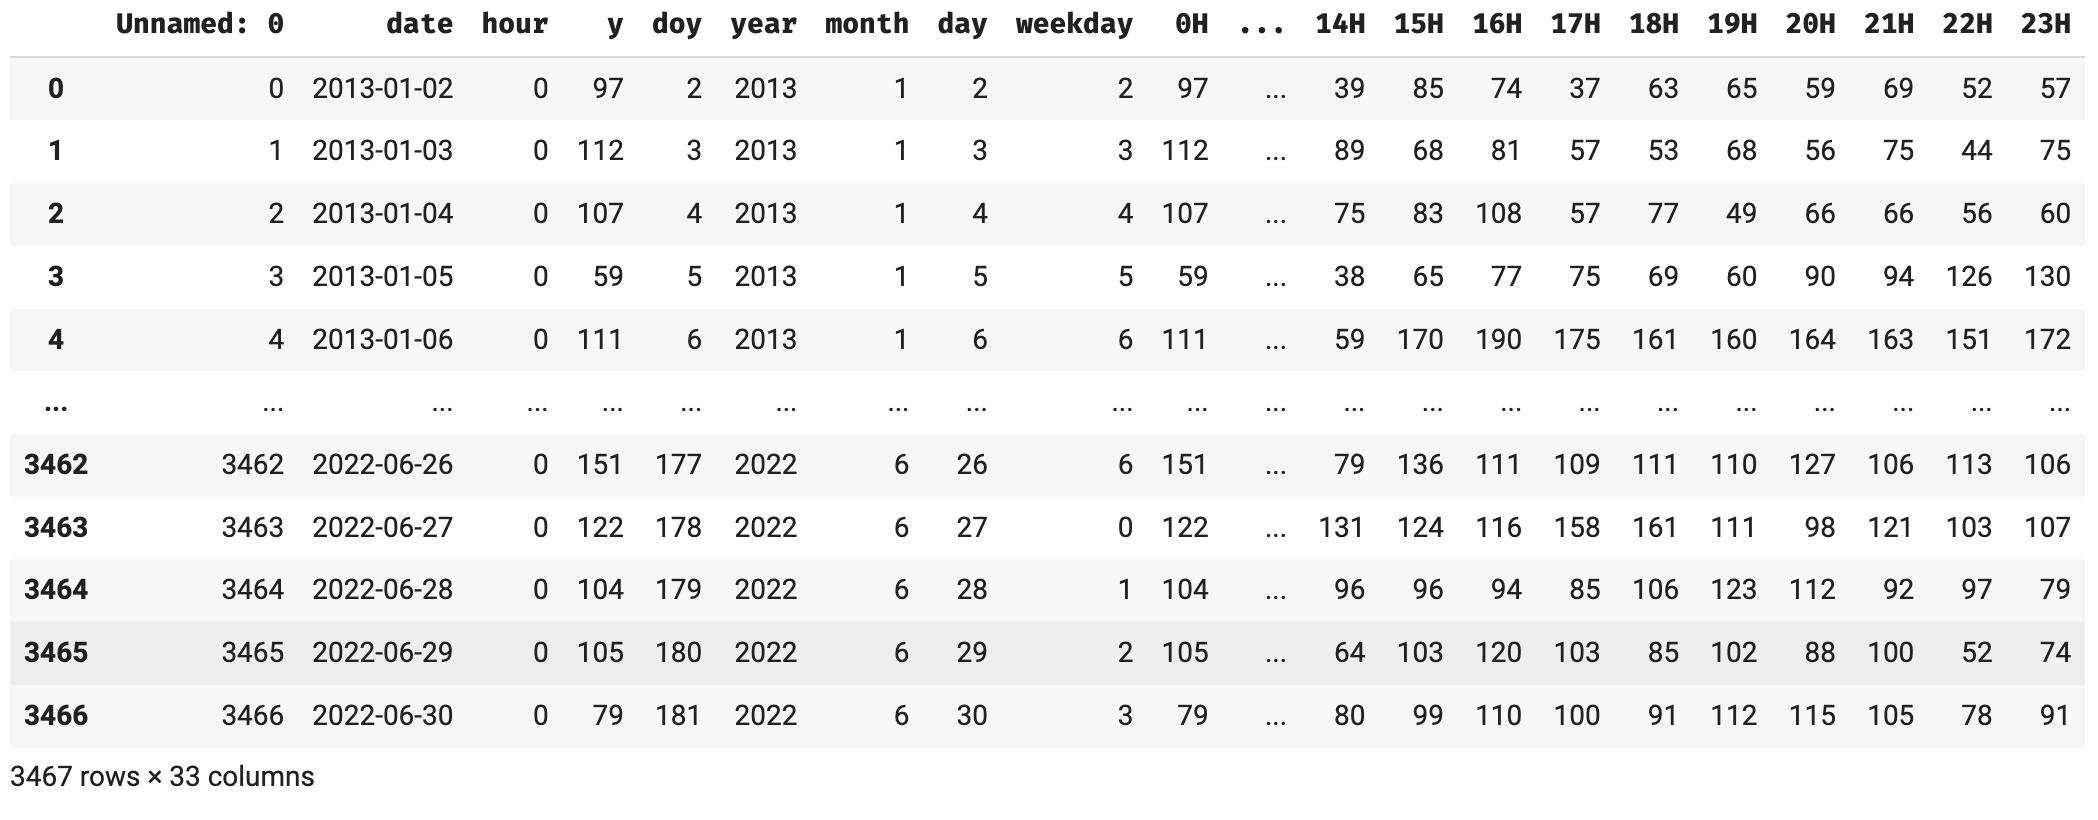
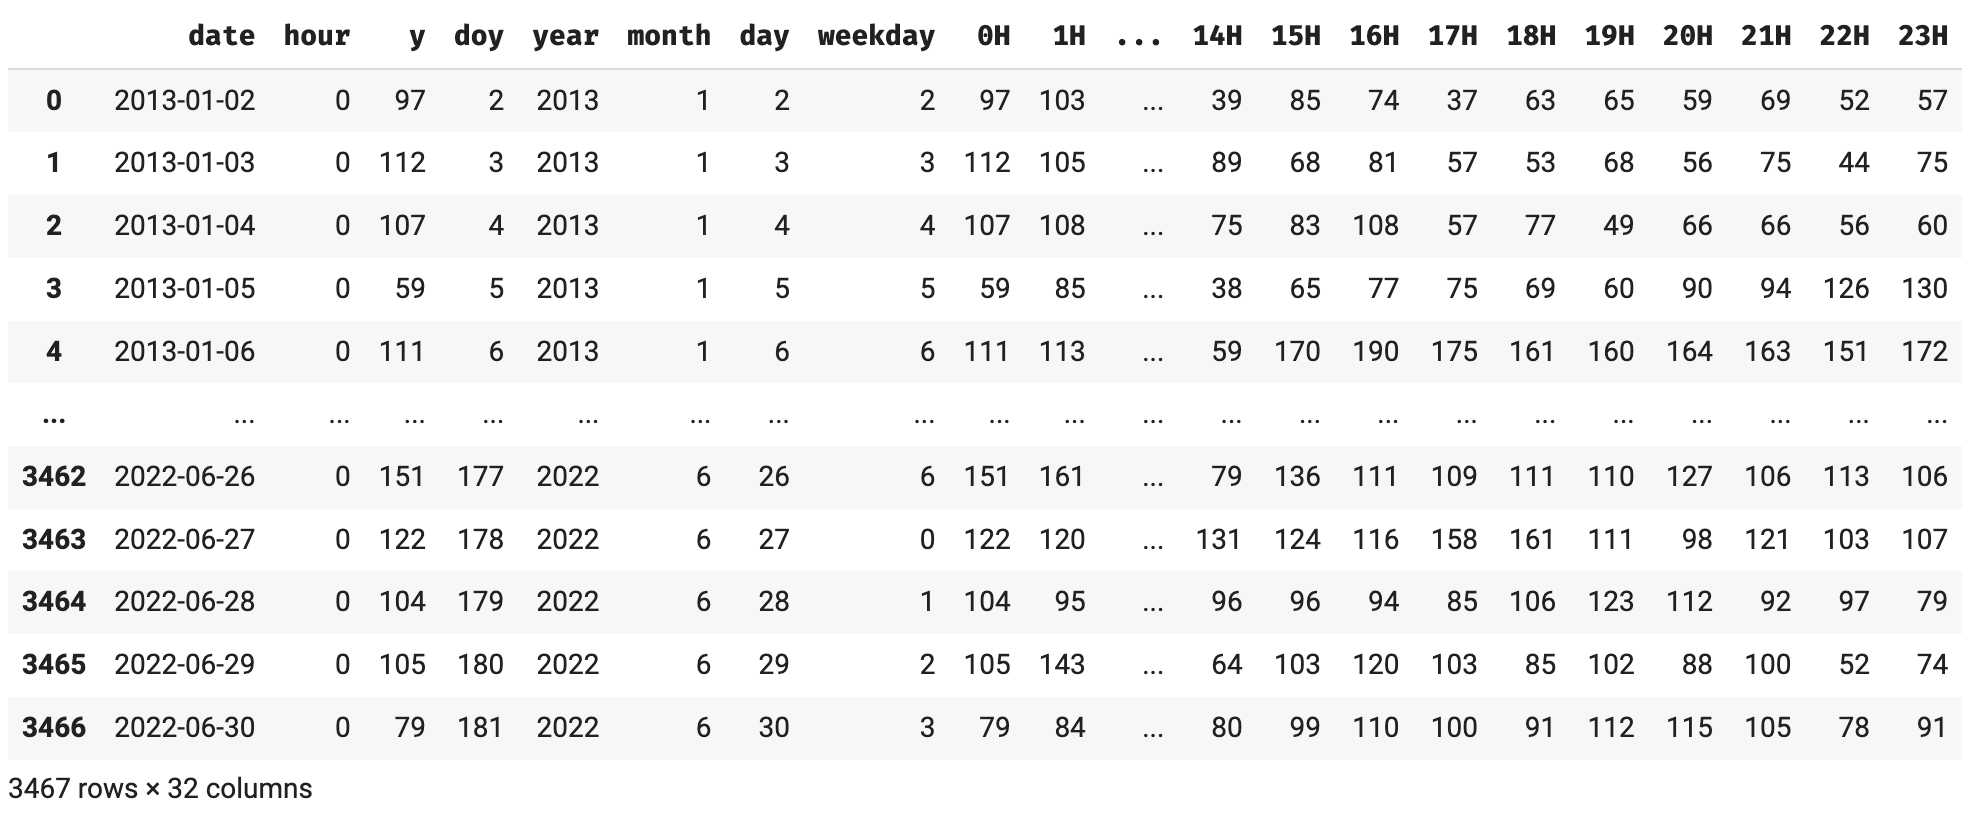
Update all

diff --git a/README.md b/README.md
@@ -64,13 +64,15 @@ $$ MAPE = \frac{1}{n} \sum^n_{t=1} \left|\frac{yt-\hat{y}t}{yt}\right| $$
 ## 데이터 전처리
 <p align='center'><img src="assets/fig00.png" width="240"> <img src="assets/fig02.png" width="340"></p>
 
-**input**: 전일오후6시-오전9시 119신고접수량 
 
-집계시간은 인풋데이터를 보면 집계시점으로 6시간 전을 시작으로 6시간 단위로 접수량을 집계, <br>그리고 기존데이터가 'data type'이 아닌 '문자열 string'으로 되어있어 데이터전처리가 불가피했습니다.
+
+- 기존데이터가 'data type'이 아닌 '문자열 string'으로 되어있어 데이터전처리가 불가피했습니다.
+- **input**: 전일 오후6시 ~ 해당일 오전9시 119신고접수량 
+- 인풋데이터를 보면 6시간 전을 포함하여 기준일로 전날의 마지막 6시간을 맞물려 데이터를 가지고 있습니다. 추후 접수량계산시 해당일에 맞추는 번거로운 작업을 피하기 위해 접수일시를 6시간 밀려서 접수건과 접수일이 일치하도록 전처리를 진행했습니다.
 
 <p align='center'><img src="assets/fig03.png" width="560"> <img src="assets/fig04.png" width="130"></p>
 
-그러므로 전처리 후 시간대별 접수량 집계데이터 생성했습니다.
+전처리 접수시간대인'hour'를 기준으로 집계량 y을 생성하여 시계열분석을 위한 준비를 완료했습니다.
 
 <br>
 
@@ -113,7 +115,7 @@ class LSTM(nn.Module):
         return x
 ```
 
-train 데이터에 대하여 7:3 비율로 vaild 를 설정하고 훈련.
+Train 데이터에 대하여 7:3 비율로 vaild 를 설정하고 훈련.
 <p align='center'><img src="assets/fig08.png" width="320"></p>
 
 어느정도 학습이 되어 가는 것으로 확인하였으나,
@@ -132,14 +134,104 @@ train 데이터에 대하여 7:3 비율로 vaild 를 설정하고 훈련.
 
 xgboost 모델에 넣기위해서 시간대별 피쳐들을 생성하고 그 날이 주중인지 주말인지에 대한 피쳐도 추가했습니다.
 
-<p align='center'><img src="assets/fig04.png" width="140"> 👉 <img src="assets/fig10.png" width="295"> <br>
-👇</p>
+<p align='center'><img src="assets/fig11.png" width="680"></p>
 
-<p align='center'><img src="assets/fig11.png" width="640"></p>
+데이터 훈련에 앞서 train, valid 데이터를 나누기전,
+시계열 있는 정형데이터를 반영하기 위해서 valid 데이터를 test 데이터의 2022년 7월 1일 부터 10월 15일 시간대에 맞는 2021년 7월 1일 부터 10월 15일를 특정하여 설정해 주었습니다.
+
+<p align='center'><img src="assets/fig12.png" width="680"></p>
 
 <br>
 
-## 한계 점
+## 모델링 및 훈련
+
+xgboost 모델에 적절한 파라미터를 찾아내기위해 K-fold 교차검증도 같이 수행할 수 있는 그리드서치를 진행했습니다.
+
+### Grid Search Cross Validation
+
+``` python
+# 그리드 서치
+from sklearn.model_selection import GridSearchCV
+
+# Define the parameter grid for grid search
+param_grid = {
+    'n_estimators': [200],
+    'max_depth': [2, 3, 4],
+    'learning_rate': [0.1, 0.01, 0.001],
+    'subsample': [0.8, 1],
+    'colsample_bytree': [0.6, 0.8, 1],
+}
+
+# Create an XGBoost regressor object
+model = XGBRegressor(random_state=42)
+
+# Create a GridSearchCV object with cross-validation
+grid_search = GridSearchCV(estimator=model,
+                           param_grid=param_grid,
+                           scoring='neg_mean_absolute_percentage_error',
+                           cv=5,
+                           )
+
+# Fit the grid search to the training data
+grid_search.fit(X_train, y_train)
+
+# Print the best parameters and best score from grid search
+print("Best Parameters:", grid_search.best_params_)
+print("Best GS Score:", -grid_search.best_score_)
+```
+
+도출된 파라미터로 훈련을 진행했으며
+
+``` python
+# Hyperparameters
+xgb_params = {
+    'learning_rate': 0.1,
+    'n_estimators': 200,
+    'max_depth': 3,
+    'random_state': 42,
+    'subsample': 1,
+    'colsample_bytree': 1
+}
+
+model = XGBRegressor(**xgb_params)
+
+# training
+
+eval_set = [(X_train, y_train), (X_val, y_val)]
+
+model.fit(X=X_train,
+          y=y_train,
+          eval_set=eval_set,
+          eval_metric="mape",
+          early_stopping_rounds=20,
+          verbose=1)
+```
+
+별도로 "early stopping"을 지정하여 과적합을 방지하고자 했습니다.
+
+<p align='center'><img src="assets/fig13.png" width="640"></p>
+
+<br>
 
 ## 결과
+
+- 60명 인원 중 5위를 달성했으며 
+
+- Best 점수는 MAPE: 15.5567, 달성한 점수는 : MAPE:15.8617 로 마감했다.
+
+<p align='center'><img src="assets/fig14.png" height="280"><img src="assets/fig15.png" height="280"></p>
+
+<br>
+
+## 한계점 및 회고
+
+그리드서치통해 얻은 기본 하이퍼파라미터에 Early Stopping을 적용하여 학습했을때 제출한 서브미션에 가장 좋은 final 점수를 얻을수 있었으며, 여러차례 public에서 순위에 오르기 위한 하이퍼파라미더 조정들은 public 예측에서 과적합을 불러올뿐 final 점수를 낮아지기만 했다
+
+- Best Scoring: Public MAPE: 15.7228, Final MAPE: 15.6377
+
+- Submmision: Public MAPE: 15.6143, Final MAPE: 15.8617
+
+최종 제출은 public에서 가장 높은 점수를 얻은 submission 을 제출했지만 final에서 오히려 더 많이 낮은 MAPE 가 나왔습니다.
+
+우승자는 optuna를 사용하여 피쳐엔지니어링을 진행했으며 EDA와 피쳐엔지니어링에 좀더 다양한 시도가 이루워 지지 않은 한계가 아쉬움이 남습니다.
 
